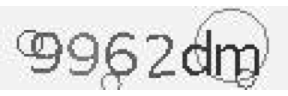
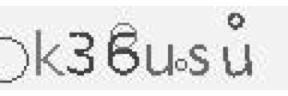
Now using keras::load_model_hdf5()

Changed region(s): [[0.0, 0.0625, 0.9375, 0.9375], [0.4688, 0.8125, 0.5, 0.8438]]

diff --git a/README.md b/README.md
@@ -29,7 +29,7 @@ file <- download_captcha("trt", path = "./img")
 decrypt(file, model = "trt")
 ```
 
-    ## [1] "9962dm"
+    ## [1] "k36usu"
 
 Simple, right? The `decrypt()` funcion is this package's workhorse: it is able to take a captcha (either the path to a captcha file or a captcha object read with `read_captcha()`) and break it with a model (either the name of a known model, the path to a model file or a model object created with `train_model()`).
 
@@ -87,7 +87,7 @@ model <- train_model(captchas, verbose = FALSE)
 decrypt(file, model = model)
 ```
 
-    ## [1] "k7b5jb"
+    ## [1] "ys3kr4"
 
 ``` r
 # We could also have loaded the model from disk
@@ -105,4 +105,4 @@ microbenchmark::microbenchmark(decrypt = decrypt(captcha, model))
 
     ## Unit: milliseconds
     ##     expr      min       lq    mean   median       uq      max neval
-    ##  decrypt 6.419015 6.529818 7.67595 6.594364 6.953313 87.74857   100
+    ##  decrypt 6.739689 7.132197 8.46989 7.375482 7.747622 97.18051   100
